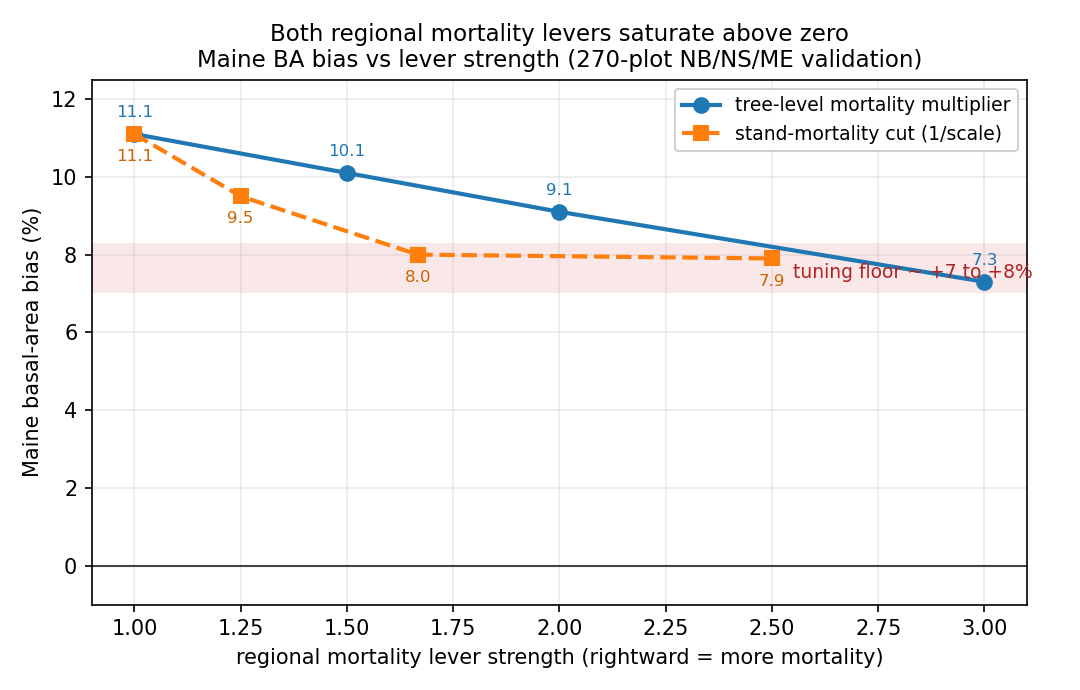
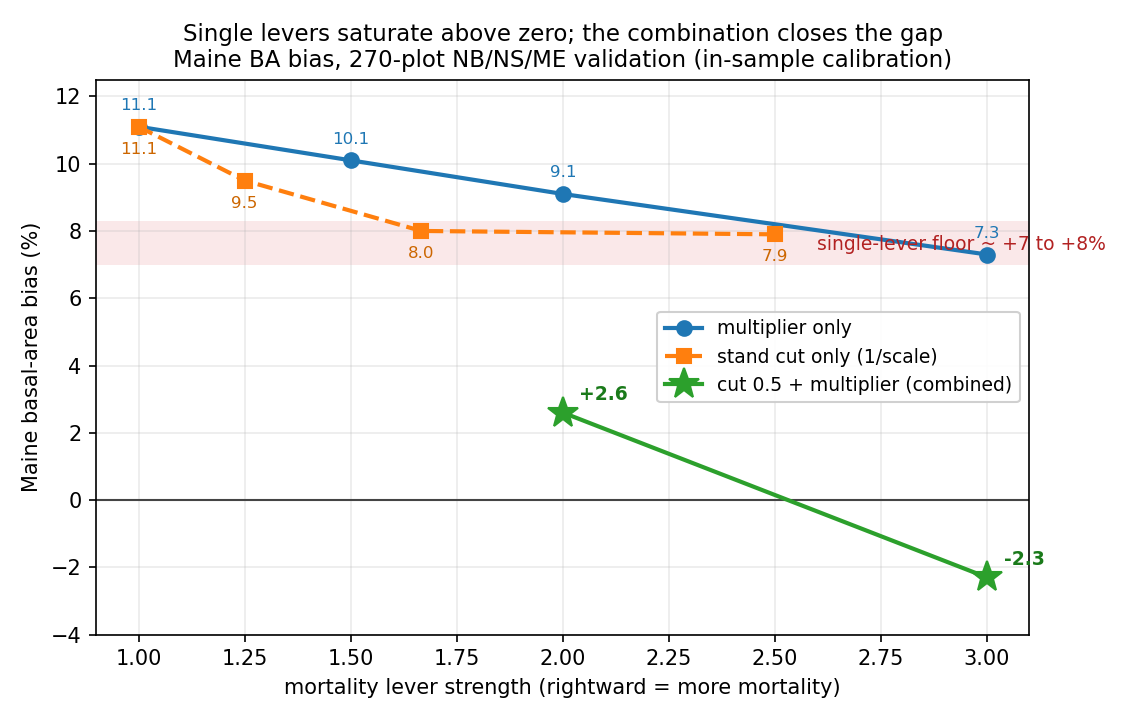
Combined-lever mortality breakthrough: Maine BA +11.1 -> +2.6
Cut and multiplier are complementary (cut admits below-frontier stands; mult
supplies magnitude). Maine cut 0.5 x mult 2.0 brings Maine BA to +2.6 and TPA to
~0; all regions within a few percent under region-specific settings. Closes the
single-lever +7-8% floor. Interim in-sample calibration; release fix is the
cross-validated coefficient refit. Updates figure + scorecard (combo rows).

diff --git a/scripts/fig_mort_levers.py b/scripts/fig_mort_levers.py
@@ -2,25 +2,28 @@ import matplotlib
 matplotlib.use("Agg")
 import matplotlib.pyplot as plt
 
-# Maine BA percent bias under the two regional mortality levers (270-plot NB/NS/ME set).
-# Multiplier: tree-level mort.mult (job 12102289). Cut-scale: stand-mortality cut (job 12102495).
-mult_x = [1.0, 1.5, 2.0, 3.0]; mult_y = [11.1, 10.1, 9.1, 7.3]
-cut_x  = [1.0, 0.8, 0.6, 0.4]; cut_y  = [11.1, 9.5, 8.0, 7.9]
-# Plot lever "strength" increasing left->right: multiplier as-is; cut as (1/scale) so both grow rightward.
-cut_strength = [1/s for s in cut_x]  # 1.0, 1.25, 1.67, 2.5
+# Maine BA percent bias under regional mortality levers (270-plot NB/NS/ME set).
+# Single levers saturate; the combination breaks through.
+mult_x = [1.0, 1.5, 2.0, 3.0]; mult_y = [11.1, 10.1, 9.1, 7.3]          # tree-level multiplier only
+cut_x  = [1.0, 0.8, 0.6, 0.4]; cut_y  = [11.1, 9.5, 8.0, 7.9]            # stand cut only
+cut_strength = [1/s for s in cut_x]
+# Combined (cut 0.5 + multiplier), plotted at multiplier strength:
+combo_x = [2.0, 3.0]; combo_y = [2.6, -2.3]
 
-fig, ax = plt.subplots(figsize=(7.2, 4.6), dpi=150)
-ax.axhline(0, color="#444", lw=1, ls="-")
+fig, ax = plt.subplots(figsize=(7.6, 4.8), dpi=150)
+ax.axhline(0, color="#444", lw=1)
 ax.axhspan(7.0, 8.3, color="#d62728", alpha=0.10, lw=0)
-ax.plot(mult_x, mult_y, "o-", color="#1f77b4", lw=2, ms=7, label="tree-level mortality multiplier")
-ax.plot(cut_strength, cut_y, "s--", color="#ff7f0e", lw=2, ms=7, label="stand-mortality cut (1/scale)")
-ax.text(2.55, 7.55, "tuning floor ~ +7 to +8%", color="#b22222", fontsize=9, va="center")
+ax.plot(mult_x, mult_y, "o-", color="#1f77b4", lw=2, ms=7, label="multiplier only")
+ax.plot(cut_strength, cut_y, "s--", color="#ff7f0e", lw=2, ms=7, label="stand cut only (1/scale)")
+ax.plot(combo_x, combo_y, "*-", color="#2ca02c", lw=2, ms=15, label="cut 0.5 + multiplier (combined)")
+ax.text(2.6, 7.6, "single-lever floor ~ +7 to +8%", color="#b22222", fontsize=9, va="center")
 for x,y in zip(mult_x,mult_y): ax.annotate(f"{y:.1f}", (x,y), textcoords="offset points", xytext=(0,8), ha="center", fontsize=8, color="#1f77b4")
 for x,y in zip(cut_strength,cut_y): ax.annotate(f"{y:.1f}", (x,y), textcoords="offset points", xytext=(0,-13), ha="center", fontsize=8, color="#cc6600")
-ax.set_xlabel("regional mortality lever strength (rightward = more mortality)")
+for x,y in zip(combo_x,combo_y): ax.annotate(f"{y:+.1f}", (x,y), textcoords="offset points", xytext=(8,6), ha="left", fontsize=9, color="#1a7a1a", fontweight="bold")
+ax.set_xlabel("mortality lever strength (rightward = more mortality)")
 ax.set_ylabel("Maine basal-area bias (%)")
-ax.set_title("Both regional mortality levers saturate above zero\nMaine BA bias vs lever strength (270-plot NB/NS/ME validation)", fontsize=11)
-ax.set_ylim(-1, 12.5); ax.grid(alpha=0.25); ax.legend(loc="upper right", fontsize=9, framealpha=0.9)
+ax.set_title("Single levers saturate above zero; the combination closes the gap\nMaine BA bias, 270-plot NB/NS/ME validation (in-sample calibration)", fontsize=11)
+ax.set_ylim(-4, 12.5); ax.grid(alpha=0.25); ax.legend(loc="center right", fontsize=9, framealpha=0.92)
 fig.tight_layout()
 out="/sessions/quirky-fervent-dijkstra/mnt/fvs-acd-site-update/figures/acadgy_mortality_lever_saturation.png"
 fig.savefig(out); print("WROTE", out)
